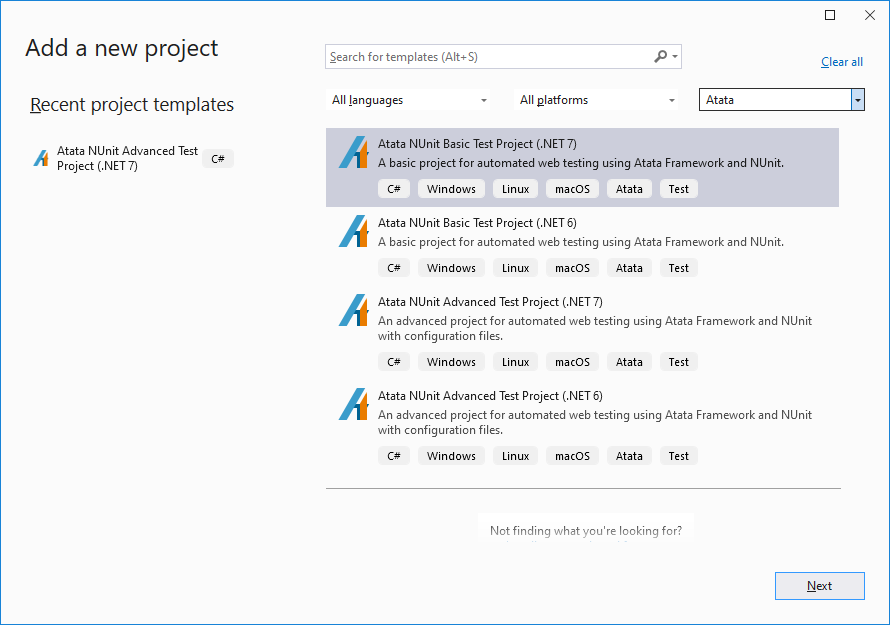
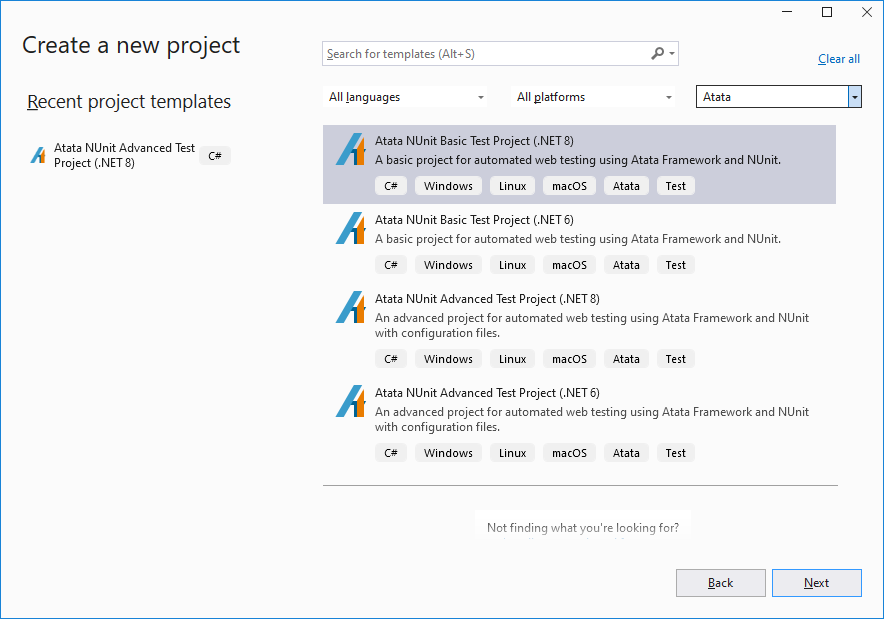
Update "Getting Started / Installation / Install via Atata Templates" section

diff --git a/_includes/getting-started/installation/install-via-atata-templates.md b/_includes/getting-started/installation/install-via-atata-templates.md
@@ -4,9 +4,9 @@ The extension provides the following templates:
 
 - Project templates:
   - Atata NUnit Basic Test Project (.NET 6)
-  - Atata NUnit Basic Test Project (.NET 7)
+  - Atata NUnit Basic Test Project (.NET 8)
   - Atata NUnit Advanced Test Project (.NET 6)
-  - Atata NUnit Advanced Test Project (.NET 7)
+  - Atata NUnit Advanced Test Project (.NET 8)
 - Item templates:
   - Atata Page Object
   - Atata Base Page Object
@@ -20,11 +20,11 @@ The extension provides the following templates:
 When extension is installed, you can create a project of one of Atata project types.
 In Visual Studio:
 
-1. Go to **File/New/Project...** or **File/Add/New Project...** (to add to existing solution)
-1. Type **Atata** into search box or choose **Atata** in "project types" drop-down
-1. Choose template (e.g.: **Atata NUnit Advanced Test Project (.NET 6)**) and specify project name and location
+1. Go to **File/New/Project...** or **File/Add/New Project...** (to add to existing solution).
+1. Type **Atata** into search box or choose **Atata** in "project types" drop-down.
+1. Choose template, e.g., **Atata NUnit Advanced Test Project (.NET 8)**, and specify project name and location.
 
-![Atata Templates project](/assets/images/atata-templates/new-project-window.png?v4)
+![Atata Templates project](/assets/images/atata-templates/new-project-window.png?v5)
 
 #### Project References
 
